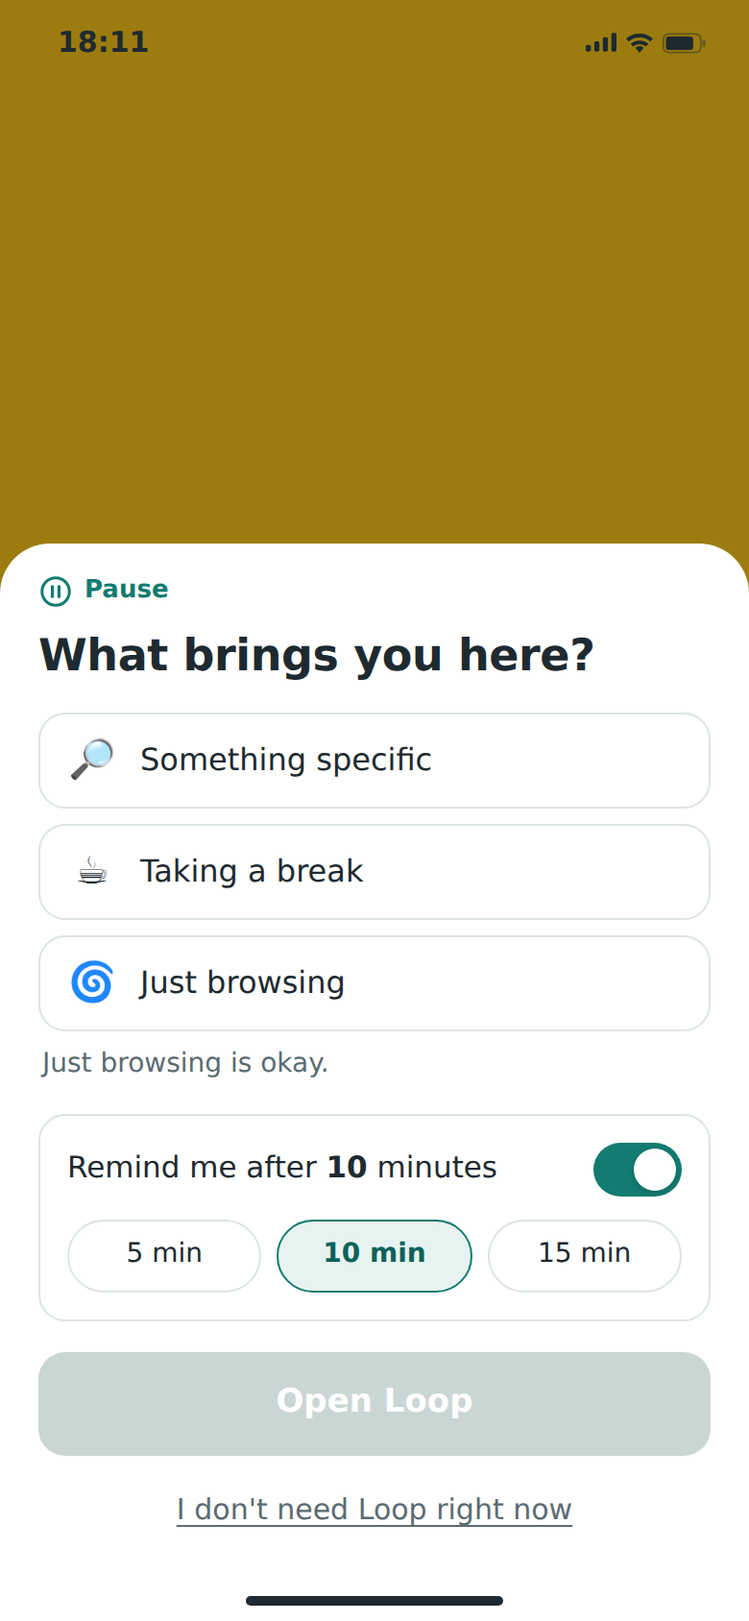
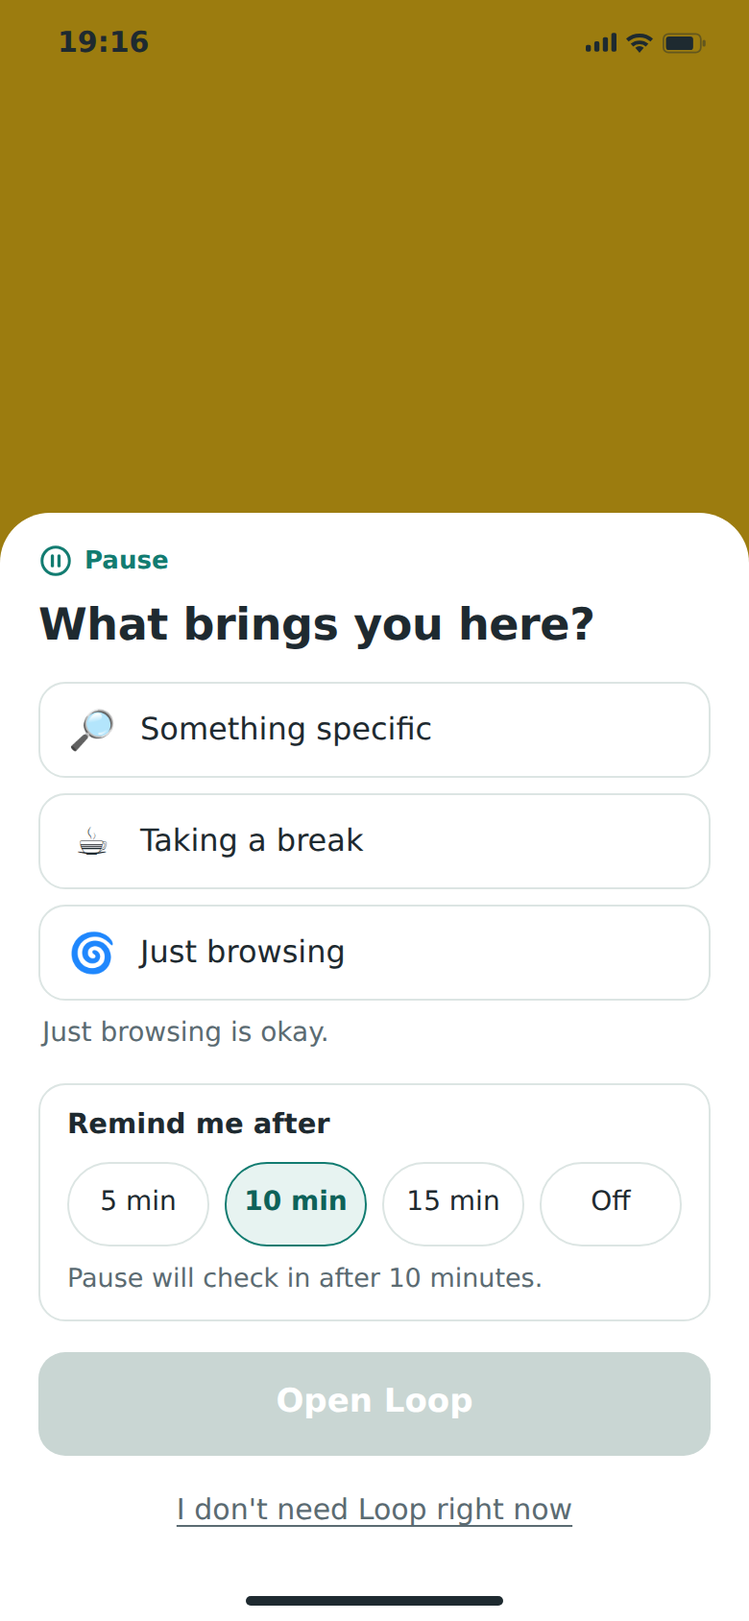
Refine Pause for classroom demonstration
- Home: Loop only; remove non-working app icons
- Reminder: 5 / 10 / 15 / Off with the chosen setting described below it
- "Finish session" label shown whenever the feed is open, highlighted on
  first use
- Leaving the page ends the session without a reward; each finish is
  rewarded once
- Participant view is the default with the plant reward on; the console
  opens with ?facilitator=1 or five taps on the clock
- Log run_mode (real_time / accelerated_demo)
- Plant card cropped to the plant's height
- Screenshots retaken; README and evidence pack updated

Claude-Session: https://claude.ai/code/session_01DMhTpXsU3YFuW6W5HLrjFW

diff --git a/index.html b/index.html
@@ -90,7 +90,6 @@ body.pview .stage{grid-template-columns:minmax(0,1fr); justify-items:center}
 .ic{display:flex; flex-direction:column; align-items:center; gap:6px; background:none; border:0; color:#fff; padding:0; width:72px}
 .ic .tile{width:60px; height:60px; border-radius:15px; display:grid; place-items:center; box-shadow:0 4px 10px -4px rgba(0,0,0,.35)}
 .ic .lab{font-size:12px; text-shadow:0 1px 2px rgba(0,0,0,.3)}
-.ic.inert .tile{opacity:.92}
 .home-hint{position:absolute; left:0; right:0; bottom:40px; text-align:center; font-size:12.5px; opacity:.8}
 
 /* app layer */
@@ -99,7 +98,7 @@ body.pview .stage{grid-template-columns:minmax(0,1fr); justify-items:center}
 .splash[hidden]{display:none}
 .splash .tile{width:92px; height:92px; border-radius:24px; display:grid; place-items:center}
 .app-top{position:absolute; top:44px; left:0; right:0; height:52px; z-index:3; display:flex; align-items:center; justify-content:space-between; padding:0 16px; background:#fff}
-.feed{position:absolute; left:0; right:0; top:96px; bottom:0; overflow-y:auto; overscroll-behavior:contain; padding-bottom:34px; background:#fff}
+.feed{position:absolute; left:0; right:0; top:96px; bottom:0; overflow-y:auto; overscroll-behavior:contain; padding-bottom:96px; background:#fff}
 .feed::-webkit-scrollbar{display:none}
 .feed{scrollbar-width:none}
 
@@ -194,15 +193,11 @@ body.pview .stage{grid-template-columns:minmax(0,1fr); justify-items:center}
 .notif b{display:block; font-size:14px}
 .notif .when{font-size:12px; color:var(--p-muted); align-self:start}
 .intro{margin:0 0 12px; padding:10px 14px; border-radius:14px; background:var(--p-tint); color:var(--p-teal-2); font-size:14.5px; line-height:1.4}
-.remind{border:1.5px solid var(--p-line); border-radius:14px; padding:6px 14px; margin:2px 0 16px}
-.rem-row{display:flex; align-items:center; justify-content:space-between; gap:12px; width:100%; min-height:44px; padding:4px 0; background:none; border:0; color:var(--p-ink); font-size:15.5px; text-align:left}
-.sw{position:relative; flex:none; width:46px; height:28px; border-radius:14px; background:#C9D6D3; transition:background .15s}
-.sw::after{content:""; position:absolute; top:3px; left:3px; width:22px; height:22px; border-radius:50%; background:#fff; box-shadow:0 1px 3px rgba(0,0,0,.2); transition:transform .15s}
-.rem-row[aria-checked="true"] .sw{background:var(--p-teal)}
-.rem-row[aria-checked="true"] .sw::after{transform:translateX(18px)}
-.rem-mins{display:flex; gap:8px; padding:4px 0 8px}
-.rem-mins[hidden]{display:none}
-.rem-mins button{flex:1; min-height:38px; border-radius:999px; border:1.5px solid var(--p-line); background:#fff; color:var(--p-ink); font-size:14px}
+.remind{border:1.5px solid var(--p-line); border-radius:14px; padding:12px 14px; margin:2px 0 16px}
+.rem-lbl{margin:0 0 8px; font-size:14.5px; font-weight:650}
+.rem-now{margin:8px 0 0; font-size:13.5px; color:var(--p-muted)}
+.rem-mins{display:flex; gap:8px}
+.rem-mins button{flex:1; min-height:44px; border-radius:999px; border:1.5px solid var(--p-line); background:#fff; color:var(--p-ink); font-size:14px}
 .rem-mins button[aria-pressed="true"]{border-color:var(--p-teal); background:var(--p-tint); color:var(--p-teal-2); font-weight:650}
 .ack{position:absolute; left:28px; right:28px; top:50%; z-index:7; transform:translateY(-50%); padding:22px 20px 20px; border-radius:24px; background:#fff; color:var(--p-ink);
   text-align:center; box-shadow:0 24px 60px -24px rgba(0,0,0,.5); pointer-events:none; opacity:0; visibility:hidden; transition:opacity .3s, visibility 0s linear .3s}
@@ -214,6 +209,8 @@ body.pview .stage{grid-template-columns:minmax(0,1fr); justify-items:center}
 .barlabel{position:absolute; left:50%; bottom:24px; z-index:9; transform:translateX(-50%); display:none; padding:9px 18px; border:0; border-radius:999px;
   background:var(--p-teal); color:#fff; font-size:14.5px; font-weight:650; white-space:nowrap; box-shadow:0 8px 20px -8px rgba(0,0,0,.45)}
 .barlabel.on{display:block}
+.barlabel.quiet{padding:7px 15px; font-size:13.5px; background:rgba(30,42,48,.8)}
+.barlabel.quiet::after{background:rgba(30,42,48,.8)}
 .barlabel::after{content:""; position:absolute; left:50%; bottom:-5px; width:10px; height:10px; background:var(--p-teal); transform:translateX(-50%) rotate(45deg)}
 .toast{position:absolute; left:50%; bottom:84px; transform:translateX(-50%); z-index:8; background:rgba(20,32,36,.9); color:#fff; font-size:13.5px;
   padding:9px 14px; border-radius:12px; width:max-content; max-width:86%; text-align:center; opacity:0; transition:opacity .2s; pointer-events:none}
@@ -421,7 +418,7 @@ dialog::backdrop{background:rgba(10,20,22,.45)}
       <div class="btns"><button class="btn fill" type="button" id="btnExport">Export CSV</button><button class="btn" type="button" id="btnCopy">Copy CSV</button><button class="btn quiet" type="button" id="btnClear">Clear log</button></div>
       <div class="table-wrap"><table id="logTable"></table></div>
       <p class="help">One row per session, newest first; the CSV has every column. Feed content is never logged. Decision times are real milliseconds. Session length, clock times and "within 1 minute of a checkpoint" use app time, which pauses on Pause screens and runs at the chosen speed; each row records its speed, so compare durations only from 1× sessions.</p>
-      <p class="help">For participant view on their own phone, host this file (for example on GitHub Pages) and add <b>?participant=1&amp;speed=1&amp;reward=A</b> to the link (<b>&amp;pause=off</b> for baseline). Tap the phone's clock five times within three seconds to bring this console back.</p>
+      <p class="help">The plain link opens in participant view. Add <b>?facilitator=1</b> to open this console, or tap the phone's clock five times within three seconds. Link options such as <b>?speed=1&amp;reward=A</b> set the conditions (<b>&amp;pause=off</b> for baseline). Tap the phone's clock five times within three seconds to bring this console back.</p>
     </section>
   </aside>
 </div>
@@ -451,10 +448,6 @@ const ICONS = {
 const APPS = {
   loop:  {name:'Loop',  bg:'#F2B705'}
 };
-const INERT = [
-  {k:'messages', name:'Messages', bg:'#34B566'}, {k:'camera', name:'Camera', bg:'#E6EAEB'},
-  {k:'calendar', name:'Calendar', bg:'#FFFFFF'}, {k:'maps', name:'Maps', bg:'#3E8E7E'}, {k:'settings', name:'Settings', bg:'#7D8B90'}
-];
 const PURPOSES = [
   {k:'check',  icon:'🔎', label:'Something specific', short:'Specific', came:'for something specific'},
   {k:'break',  icon:'☕', label:'Taking a break',     short:'Break',    came:'for a break'},
@@ -496,9 +489,9 @@ const MARK_SVG = (size=20) => `<svg width="${size}" height="${size}" viewBox="0 
 const mark = () => `<div class="mark">${MARK_SVG(18)}<span>Pause</span></div>`;
 
 /* ---------------- State ---------------- */
-const STORE = 'pause.v6';
+const STORE = 'pause.v7';
 const S = {
-  settings:{pid:'P01', weekStart:0, reward:'A', breath:false, speed:1, pause:'on', remind:'on', reflect:'off'},
+  settings:{pid:'P01', weekStart:0, reward:'B', breath:false, speed:1, pause:'on', remind:'on', reflect:'off'},
   week:{stops:0, goal:null, seed:0, intro:false, bar:{}},
   debrief:{}, db:{},
   sessionN:0, screen:'home', cur:null, log:[], sim:Date.now()
@@ -540,7 +533,8 @@ function updateChrome(){
   let light = false;
   if (s === 'home' || s === 'call') light = true;
   el.screen.classList.toggle('chrome-light', light);
-  el.barLabel.classList.toggle('on', s === 'app' && !!c && !(S.week.bar || {})[c.condition]);
+  el.barLabel.classList.toggle('on', s === 'app' && !!c);
+  el.barLabel.classList.toggle('quiet', !!c && !!(S.week.bar || {})[c.condition]);
 }
 function showBk(html){ el.bk.innerHTML = html; el.bk.classList.add('on'); }
 function hideBk(){ el.bk.classList.remove('on'); el.bk.innerHTML = ''; }
@@ -550,12 +544,10 @@ function toast(text){ el.toast.textContent = text; el.toast.classList.add('show'
 function buildHome(){
   const tile = (k, bg) => `<span class="tile" style="background:${bg}">${ICONS[k]}</span>`;
   const main = Object.entries(APPS).map(([k, a]) => `<button class="ic" type="button" data-open="${k}">${tile(k, a.bg)}<span class="lab">${a.name}</span></button>`);
-  const inert = INERT.map(a => `<button class="ic inert" type="button" data-inert="1">${tile(a.k, a.bg)}<span class="lab">${a.name}</span></button>`);
-  $('#appGrid').innerHTML = main.concat(inert).join('');
+  $('#appGrid').innerHTML = main.join('');
   $('#appGrid').addEventListener('click', e => {
     const b = e.target.closest('button'); if (!b) return;
     if (b.dataset.open) startFlow(b.dataset.open, 'tap');
-    else toast('Only Loop opens in this test.');
   });
   const d = new Date();
   $('#wDate').textContent = d.toLocaleDateString('en-IN', {weekday:'long', day:'numeric', month:'long'});
@@ -608,8 +600,8 @@ function showPurpose(mode){
   setScreen('purpose');
   const shownAt = performance.now(); c.pShownAt = shownAt;
   let picked = null, firstPick = null;
-  let remOn = mode === 'open' ? S.settings.remind === 'on' : c.cueEnd != null;
-  let remMin = (c.plan && c.plan.min) || 10;
+  let rem = mode === 'open' ? (S.settings.remind === 'on' ? 10 : 0) : (c.cueEnd != null ? (c.plan && c.plan.min) || 10 : 0);
+  const remText = m => m ? `Pause will check in after ${m} minutes.` : `No reminder. Pause won't check in.`;
   const intro = mode === 'open' && !S.week.intro;
   if (intro){ S.week.intro = true; c.intro = true; save(); }
   showBk(`<div class="bk-sheet-wrap"><div class="bk-sheet" role="dialog" aria-modal="true" aria-labelledby="pTitle">
@@ -618,9 +610,10 @@ function showPurpose(mode){
     <h1 class="p-title" id="pTitle">${mode === 'open' ? 'What brings you here?' : 'What are you here for now?'}</h1>
     <div>${PURPOSES.map(p => `<button class="opt" type="button" data-p="${p.k}" aria-pressed="${mode !== 'open' && c.purpose === p.k}"><span class="opt-ic" aria-hidden="true">${p.icon}</span><span>${p.label}</span></button>`).join('')}</div>
     <p class="okay">Just browsing is okay.</p>
-    <div class="remind">
-      <button class="rem-row" type="button" id="remSw" role="switch" aria-checked="${remOn}"><span>Remind me after <b id="remMin">${remMin}</b> minutes</span><span class="sw" aria-hidden="true"></span></button>
-      <div class="rem-mins" id="remMins" role="group" aria-label="Reminder time"${remOn ? '' : ' hidden'}>${[5, 10, 15].map(m => `<button type="button" data-rm="${m}" aria-pressed="${m === remMin}">${m} min</button>`).join('')}</div>
+    <div class="remind" role="group" aria-labelledby="remLbl">
+      <p class="rem-lbl" id="remLbl">Remind me after</p>
+      <div class="rem-mins">${[5, 10, 15, 0].map(m => `<button type="button" data-rm="${m}" aria-pressed="${m === rem}">${m ? m + ' min' : 'Off'}</button>`).join('')}</div>
+      <p class="rem-now" id="remNow">${remText(rem)}</p>
     </div>
     <button class="primary" type="button" id="openBtn"${mode === 'open' ? ' disabled' : ''}>${mode === 'open' ? 'Open ' + a : 'Back to ' + a}</button>
     ${mode === 'open'
@@ -634,18 +627,13 @@ function showPurpose(mode){
     $$('.opt', el.bk).forEach(o => o.setAttribute('aria-pressed', o === b ? 'true' : 'false'));
     $('#openBtn').disabled = false;
   }));
-  $('#remSw').addEventListener('click', () => {
-    remOn = !remOn;
-    $('#remSw').setAttribute('aria-checked', String(remOn));
-    $('#remMins').hidden = !remOn;
-  });
   $$('[data-rm]', el.bk).forEach(b => b.addEventListener('click', () => {
-    remMin = +b.dataset.rm; $('#remMin').textContent = remMin;
+    rem = +b.dataset.rm; $('#remNow').textContent = remText(rem);
     $$('[data-rm]', el.bk).forEach(o => o.setAttribute('aria-pressed', o === b ? 'true' : 'false'));
   }));
   $('#openBtn').addEventListener('click', () => {
     if (!picked) return;
-    applyPurpose(mode, picked, remOn ? remMin : 0, firstPick, Math.round(performance.now() - shownAt));
+    applyPurpose(mode, picked, rem, firstPick, Math.round(performance.now() - shownAt));
   });
   const dec = el.bk.querySelector('[data-act=decline]');
   if (dec) dec.addEventListener('click', () => { c.purposeMs = firstPick; c.promptMs = Math.round(performance.now() - shownAt); endSession('declined'); });
@@ -718,7 +706,8 @@ function endSession(type, interruption){
   if (type === 'voluntary' && c.condition === 'pause'){
     c.within = c.cueEnd != null ? (c.elapsed <= c.cueEnd + 1000 ? 'yes' : 'no') : '';
     c.rewardVariant = S.settings.reward;
-    S.week.stops++; c.stopsAfter = S.week.stops; c.goal = S.week.goal || '';
+    if (!c.rewarded){ c.rewarded = true; S.week.stops++; }
+    c.stopsAfter = S.week.stops; c.goal = S.week.goal || '';
   }
   if (c.checkpoints.length) c.stop1 = (type === 'voluntary' && c.lastCp != null && c.elapsed - c.lastCp <= 60000) ? 'yes' : 'no';
   el.island.classList.remove('on');
@@ -746,13 +735,13 @@ function toRow(c){
     stop_within_1min_of_checkpoint_app_time:c.stop1,
     original_boundary_min:c.origCueMin ?? '',
     final_boundary_min:c.cueEnd != null ? +(c.cueEnd / 60000).toFixed(2) : '',
-    time_speed:c.speed, duration_app_s:Math.round(c.elapsed / 1000), end_time:fmtHMS(c.endSim),
+    time_speed:c.speed, run_mode:c.speed === 1 ? 'real_time' : 'accelerated_demo', duration_app_s:Math.round(c.elapsed / 1000), end_time:fmtHMS(c.endSim),
     end_type:c.endType, interruption:c.interruption, within_boundary:c.within,
     reward_variant:c.rewardVariant, chosen_stops_after:c.stopsAfter, example_stops_at_start:c.seed, weekly_goal:c.goal,
     reflection:'', worthwhile:'', in_control:''
   };
 }
-const COLS = ['participant_id','session_number','session_id','condition','app','trigger','breath_pause','intro_shown','purpose','purpose_history','purpose_decision_ms','prompt_total_ms','time_cue_min','start_time','checkpoint_count','checkpoint_titles','checkpoint_choices','checkpoint_decision_ms','stop_within_1min_of_checkpoint_app_time','original_boundary_min','final_boundary_min','time_speed','duration_app_s','end_time','end_type','interruption','within_boundary','reward_variant','chosen_stops_after','example_stops_at_start','weekly_goal','reflection','worthwhile','in_control'];
+const COLS = ['participant_id','session_number','session_id','condition','app','trigger','breath_pause','intro_shown','purpose','purpose_history','purpose_decision_ms','prompt_total_ms','time_cue_min','start_time','checkpoint_count','checkpoint_titles','checkpoint_choices','checkpoint_decision_ms','stop_within_1min_of_checkpoint_app_time','original_boundary_min','final_boundary_min','time_speed','run_mode','duration_app_s','end_time','end_type','interruption','within_boundary','reward_variant','chosen_stops_after','example_stops_at_start','weekly_goal','reflection','worthwhile','in_control'];
 
 /* ---------------- Exit screens ---------------- */
 function plantSVG(count, goal, animate){
@@ -772,7 +761,8 @@ function plantSVG(count, goal, animate){
     ? `<g${animate && count === goal ? ' class="leaf-new"' : ''} style="transform-origin:100px ${top}px">${[0, 72, 144, 216, 288].map(a => `<ellipse cx="100" cy="${top - 9}" rx="5.5" ry="9" fill="#F6C85F" transform="rotate(${a} 100 ${top})"/>`).join('')}<circle cx="100" cy="${top}" r="5" fill="#E8875B"/></g>`
     : '';
   const mid = (base + top) / 2;
-  return `<svg class="plant" viewBox="0 0 200 220" role="img" aria-label="A plant with ${n} leaves${goal && count >= goal ? ' and a flower' : ''}">
+  const vy = Math.max(0, Math.min(Math.round(top) - (goal && count >= goal ? 34 : 22), 110));
+  return `<svg class="plant" viewBox="0 ${vy} 200 ${220 - vy}" role="img" aria-label="A plant with ${n} leaves${goal && count >= goal ? ' and a flower' : ''}">
     <path d="M100 ${base} C 96 ${mid + 12}, 104 ${mid - 12}, 100 ${top}" stroke="#2E7D6F" stroke-width="3.2" fill="none" stroke-linecap="round"/>
     ${leaves}${flower}
     <path d="M68 ${base} H132 L124 212 H76 Z" fill="#D6E0DE"/><rect x="63" y="${base - 6}" width="74" height="11" rx="3.5" fill="#BFCDCA"/>
@@ -836,7 +826,7 @@ function declineHome(){
 }
 function endedHome(kind){
   goHome();
-  toast(kind === 'call' ? 'Session ended because a call came in.' : 'Session ended because your class is starting.');
+  toast(kind === 'call' ? 'Session ended because a call came in.' : kind === 'class' ? 'Session ended because your class is starting.' : 'Session ended because Loop was closed.');
 }
 function goHome(){
   clearTimers();
@@ -1164,6 +1154,12 @@ el.sbTime.addEventListener('click', () => {
   if (taps.length >= 5){ taps = []; setPView(!document.body.classList.contains('pview')); }
 });
 
+/* Leaving the page (switching tabs, locking the phone) ends an open session without a reward. */
+document.addEventListener('visibilitychange', () => {
+  const c = S.cur;
+  if (document.hidden && c && !c.endType && c.startSim !== null) endSession('interrupted', 'left_page');
+});
+
 /* ---------------- Start ---------------- */
 load();
 const qs = new URLSearchParams(location.search);
@@ -1175,7 +1171,8 @@ if (qs.get('remind')) S.settings.remind = qs.get('remind') === 'on' ? 'on' : 'of
 if (qs.get('reflect')) S.settings.reflect = qs.get('reflect') === 'on' ? 'on' : 'off';
 if (qs.get('goal') && [5, 10, 15].includes(+qs.get('goal'))) S.week.goal = +qs.get('goal');
 if (qs.get('pid')){ S.settings.pid = qs.get('pid'); S.sessionN = S.log.filter(r => r.participant_id === S.settings.pid).length; }
-if (qs.get('participant') === '1') setPView(true);
+/* Participant view is the default; ?facilitator=1 (or five taps on the phone's clock) shows the console. */
+setPView(!(qs.get('facilitator') === '1' || qs.get('participant') === '0'));
 $('#cMark').innerHTML = MARK_SVG(30);
 loadDebrief();
 buildHome();

diff --git a/README.md b/README.md
@@ -1,54 +1,83 @@
 # Pause – doomscrolling prototype
 
 A clickable, mobile-sized prototype for a design-thinking project on doomscrolling.
-Pause adds a small layer before and after a scrolling session so starting is a
-conscious choice and stopping feels good. It never blocks the user.
+Pause helps students make intentional choices about social-media use. It adds a small
+layer before and after a scrolling session so starting is a conscious choice and
+stopping feels good. It never blocks the user.
 
-The two interventions under test:
+Loop is the single simulated social-media app, so there is one complete journey:
+open Loop → choose a purpose → scroll → check in → finish → plant reward.
 
-1. **Purpose Sessions with Conscious Continue**: "What brings you here?" (Something
-   specific / Taking a break / Just browsing), an optional "Remind me after 10 minutes"
-   setting, then "Open Loop". At the reminder: "You came here for a break. It's been
-   10 minutes." with "Finish for now" and "5 more minutes", and "Change my purpose"
-   as a smaller link.
-2. **Reward the Exit**: a chosen stop returns to the home screen and briefly shows
-   "You chose when to stop." with no tap needed. Variant A is the message only;
-   variant B adds a plant that grows a leaf for each stop you chose.
+Design references, adapted:
 
-The prototype has one app, Loop, so there is one complete journey: open Loop → choose
-purpose → scroll → check-in → stop → plant reward. Other scrolling formats (short
-video, text feeds) are a possible later step.
+- **one sec**: a brief intention before the app opens ("What brings you here?").
+- **Wellspent**: a timely, easy-to-read check-in during scrolling.
+- **Forest**: visible progress as a plant grows, one leaf per chosen stop, with no
+  dying plant, penalties or leaderboards.
 
-Each screen asks one question and has one obvious next action. The first purpose
-screen explains Pause once, and the home bar is labelled "Finish session" during the
-first session in each condition.
+## The two interventions
 
-Files:
+1. **Purpose Sessions with Conscious Continue**
+   - "What brings you here?": Something specific / Taking a break / Just browsing, with
+     "Just browsing is okay."
+   - "Remind me after": 5 min / 10 min / 15 min / Off (10 min selected by default);
+     the line underneath says what will happen.
+   - One button, "Open Loop". Choosing a purpose or reminder only changes the setting;
+     the feed opens when the user taps "Open Loop".
+   - While scrolling, a small pill shows the purpose and time since the feed opened, and
+     a "Finish session" label points at the home bar (highlighted on first use).
+   - At the reminder time, the timer pauses and a check-in shows "You came here for a
+     break. It's been 10 minutes." with "Finish for now" and "5 more minutes", and
+     "Change my purpose" as a smaller link. Continuing adds five minutes; changing
+     purpose keeps the elapsed time.
+2. **Reward the Exit**
+   - Finishing (the check-in button or the home bar) ends the session and returns to
+     the home screen straight away. A card shows the plant and "You chose when to
+     stop." for a few seconds and fades on its own.
+   - One leaf per finished session, counted once. Continuing keeps existing growth.
+     Progress starts at zero; a weekly goal is optional and set in the console.
+   - A call, a class reminder, leaving the page (switching tabs or locking the phone)
+     or an unknown end earns no reward.
 
-- `index.html`: **Pause v3** (current version, served on GitHub Pages)
-- `pause-v2.html`: **Pause v2**, the previous version, kept for comparison
+Pause is explained once, on the first purpose screen: "Choose why you're opening an
+app. Pause will check in when you want."
 
 ## Run it
 
-Open `index.html` in a browser, or use the Pages site:
-https://natashaa27.github.io/sdt-doomscrolling/
-
-For a participant's own phone (real time, reward A):
-https://natashaa27.github.io/sdt-doomscrolling/?participant=1&speed=1&reward=A
+- **Demonstration (participant view):** https://natashaa27.github.io/sdt-doomscrolling/
+  shows only the phone, with Pause on, plant reward on, breathing and in-app reflection
+  off, and real time (1×).
+- **Facilitator view:** https://natashaa27.github.io/sdt-doomscrolling/?facilitator=1
+  adds the console (conditions, baseline mode, events, log, CSV exports, debrief). In
+  participant view, tap the phone's clock five times within three seconds to show it.
+- **Quicker classroom demo:** add `?speed=60` so a 10-minute reminder arrives after 10
+  seconds. These sessions are logged as `accelerated_demo`.
 
 | Parameter | Values | Default |
 |---|---|---|
-| `participant` | `1` hides the test console | off |
+| `facilitator` | `1` shows the console | off |
 | `speed` | `1`, `10`, `60` | `1` |
-| `reward` | `A`, `B` | `A` |
+| `reward` | `A` (message only), `B` (message and plant) | `B` |
 | `pause` | `off` for the baseline condition | `on` |
+| `remind` | `off` to start with the reminder set to Off | `on` (10 min) |
 | `goal` | `5`, `10`, `15` (optional weekly goal) | none |
-| `remind` | `off` to start with the reminder switched off | `on` (10 min) |
 | `reflect` | `on` to show the reflection questions in the app | `off` |
-| `breath` | `on` for the 3-second breath | off |
+| `breath` | `on` for the 3-second breath | `off` |
 | `pid` | participant ID | `P01` |
 
-Tap the phone's clock five times within three seconds to show or hide the console.
+Files:
+
+- `index.html`: the current prototype (served on GitHub Pages)
+- `pause-v2.html`: an earlier version, kept for comparison
+- `presentation/`: screenshots and the evidence pack
+- `pilot-notes.md`: template for recording pilot sessions
+
+## Future implementation
+
+This is a web simulation of Loop. Connecting Pause to real social-media apps is a
+later phase: on iOS through a Shortcuts "App is opened" automation or the Screen Time
+API, on Android through UsageStatsManager or an AccessibilityService overlay. See
+`presentation/evidence.md` for the full plan.
 
 The log is kept in the tab's session storage: it survives a reload but is cleared when
 the tab closes. Export it after each participant.
@@ -101,6 +130,9 @@ example_stops_at_start, weekly_goal, reflection, worthwhile, in_control`
 (plus `intro_shown` after `breath_pause`)
 
 - Decision times (`*_ms`) are real milliseconds.
+- `run_mode` is `real_time` (1×) or `accelerated_demo` (10× or 60×). Compare durations
+  only from `real_time` sessions.
+- `interruption` is `call`, `class` or `left_page` (the page was hidden mid-session).
 - `duration_app_s`, clock times and `stop_within_1min_of_checkpoint_app_time` use app
   time: it runs at `time_speed` and pauses on Pause screens. At 1× it equals real time.
 - `reflection` is `after_task` when in-app reflection is off (the default), otherwise

diff --git a/presentation/evidence.md b/presentation/evidence.md
@@ -147,6 +147,12 @@ participants.
 | v4 → v5 | Pause explained once on first use; home bar labelled "Finish session" in each condition's first session | A simulated phone's tappable bar isn't obviously an exit |
 | v5 | Reminder switched on by default (10 minutes); participants can switch it off | So every participant reaches the reminder screen; a default is a nudge, so it stays the same for everyone |
 | v5 | One app (Loop) instead of three; Clips and Feed removed | One complete journey (open Loop → choose purpose → scroll → check-in → stop → plant) shows both prototypes without extra choices |
+| v6 | Remaining non-working app icons removed from the home screen | Loop is the only thing to tap |
+| v6 | Reminder shown as 5 / 10 / 15 / Off with a line saying what will happen | The chosen setting is always visible, including Off |
+| v6 | "Finish session" label shown whenever the feed is open (highlighted on first use) | The exit stays easy to find while scrolling |
+| v6 | Leaving the page ends the session without a reward; each finish counted once | Only deliberate stops grow the plant |
+| v6 | Participant view is the default, with the plant reward on; console behind `?facilitator=1` | The plain link is the classroom demonstration |
+| v6 | Log records `run_mode` (`real_time` or `accelerated_demo`) | Keeps demo sessions out of duration comparisons |
 
 ### After the pilot
 
@@ -219,6 +225,6 @@ opens. The last one guards against the stop-counting side effect.
 ## Updating the screenshots
 
 The screenshots were captured with a Playwright script in participant view
-(`?participant=1`) at 390 × 844. To refresh them, open the Pages link on a phone or in
+(the default participant view) at 390 × 844. To refresh them, open the Pages link on a phone or in
 the browser's device mode at the same size, and use the same URL options (`reward=B`,
 `goal=5`, `pause=off`) for the reward and baseline screens.
